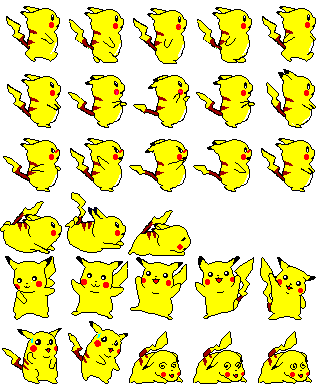
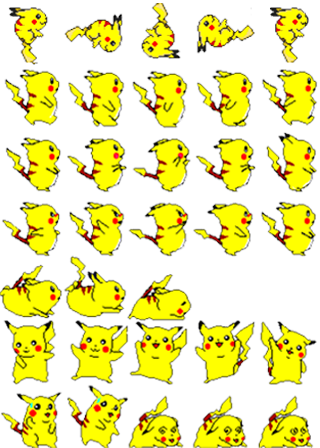
11-15
스킬 리소스 및 스킬 구현

diff --git a/play_state.py b/play_state.py
@@ -31,6 +31,10 @@ def handle_events():
                     if pikachu.jump == 0:
                         pikachu.jump = 1
                         pikachu.locate = 4
+                elif event.key == SDLK_q:
+                    if pikachu.jump == 0:
+                        pikachu.jump = 1
+                        pikachu.locate = 6
                 elif event.key == SDLK_LEFT:
                     pikachu2.dirx = -1
                     pikachu2.locate = 5
@@ -45,6 +49,10 @@ def handle_events():
                     if pikachu2.jump == 0:
                         pikachu2.jump = 1
                         pikachu2.locate = 4
+                elif event.key == SDLK_p:
+                    if pikachu2.jump == 0:
+                        pikachu2.jump = 1
+                        pikachu2.locate = 6
         elif event.type == SDL_KEYUP:
             if event.key == SDLK_d or event.key == SDLK_a or event.key == SDLK_s:
                 pikachu.dirx = 0
@@ -52,7 +60,7 @@ def handle_events():
             if event.key == SDLK_RIGHT or event.key == SDLK_LEFT or event.key == SDLK_DOWN:
                 pikachu2.dirx = 0
                 pikachu2.locate = 0
-            elif event.key == SDLK_w or event.key == SDLK_UP:
+            elif event.key == SDLK_w or event.key == SDLK_UP or event.key == SDLK_q or event.key == SDLK_p:
                 pikachu.locate = 0
                 pikachu2.locate = 0
 
